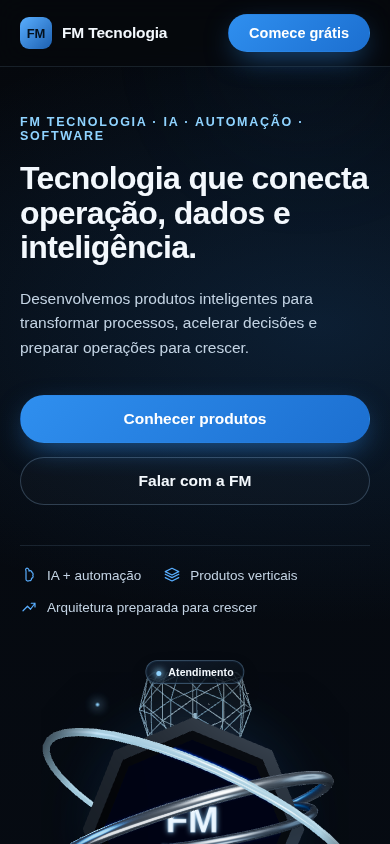
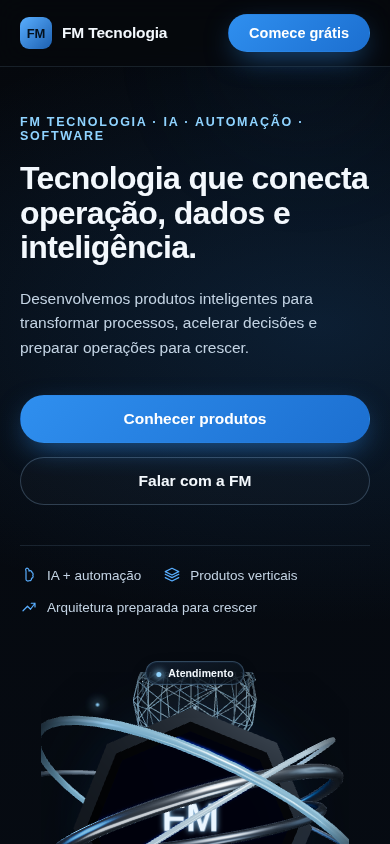
Prototype V4.1: denser 3D Core closer to V3 reference, exposure fixed
Follow-up after user confirmed they want the V3 look achieved in real
3D, not the flatter V4 first pass. Re-applied the reverted V4 commit
(three.js/R3F is back) and pushed the scene further toward the V3
image's density, then had to pull the lighting back down once it blew
out.

CoreScene3D.tsx:
- 5 orbital rings now (was 3), varied radii/tilts/speeds, closer to the
  V3 image's layered-ring look.
- Neural node cloud: 220 nodes (was 140) plus actual edges between
  nearby nodes (lineSegments) so it reads as a connected network, not
  just floating dust — closer to the "malha neural" in the reference.
  Icosahedron detail bumped to 3.
- Camera pulled in tighter (fov 34, closer position) so the core+rings+
  brain fill the frame more like the V3 crop.
- First pass at all this cranked Bloom/Lightformer intensity too far and
  blew the rings out to solid white — exactly what the brief said to
  avoid. Pulled Bloom intensity 0.85->0.45, raised luminanceThreshold
  0.32->0.58, and dropped every ring/light's
  envMapIntensity/emissiveIntensity back down so the metal reads as
  metal again instead of overexposed glow.

Re-validated: tsc clean, build clean, WebGL-disabled fallback still
flips to the static image with zero page errors, 4 sequential frames
still show real rotation. Isolated preview republished to the same
artifact URL (version 7).

Honest state: still short of V3's offline-rendered detail (this is a
live PBR scene at a bounded polygon/light budget, not a photoreal
[…]

Changed region(s): [[0.0923, 0.7701, 0.8923, 1.0]]

diff --git a/prototypes/fm-home-hero-concept-v1/src/three/CoreScene3D.tsx b/prototypes/fm-home-hero-concept-v1/src/three/CoreScene3D.tsx
@@ -22,27 +22,27 @@ export default function CoreScene3D({ quality, reducedMotion }: SceneProps) {
     <Canvas
       dpr={[1, isLow ? 1.5 : 2]}
       gl={{ antialias: true, alpha: true, powerPreference: 'high-performance' }}
-      camera={{ position: [1.35, 0.35, 6.1], fov: 32 }}
+      camera={{ position: [1.15, 0.2, 5.4], fov: 34 }}
       frameloop={reducedMotion ? 'demand' : 'always'}
       style={{ position: 'absolute', inset: 0 }}
     >
-      <ambientLight intensity={0.32} color="#9fc4ea" />
-      <directionalLight position={[3, 4, 5]} intensity={1.8} color="#ffffff" />
-      <pointLight position={[-3.2, 1.2, -1.8]} intensity={12} color="#4fb0ff" distance={11} />
-      <pointLight position={[2.2, -1.8, 3]} intensity={4} color="#bfe6ff" distance={9} />
+      <ambientLight intensity={0.3} color="#9fc4ea" />
+      <directionalLight position={[3, 4, 5]} intensity={1.4} color="#ffffff" />
+      <pointLight position={[-3.2, 1.2, -1.8]} intensity={7} color="#4fb0ff" distance={11} />
+      <pointLight position={[2.2, -1.8, 3]} intensity={2} color="#bfe6ff" distance={9} />
 
       <Environment resolution={isLow ? 128 : 256} frames={1}>
-        <Lightformer form="rect" intensity={4} color="#eaf6ff" position={[2, 3, 3]} scale={[5, 3, 1]} rotation={[0, -Math.PI / 4, 0]} />
-        <Lightformer form="rect" intensity={3} color="#4fb0ff" position={[-4, 0.5, 2]} scale={[4, 2.5, 1]} rotation={[0, Math.PI / 3, 0]} />
-        <Lightformer form="rect" intensity={1.6} color="#ffffff" position={[0, -3, 2]} scale={[6, 2, 1]} rotation={[Math.PI / 4, 0, 0]} />
-        <Lightformer form="ring" intensity={1.2} color="#bfe6ff" position={[4, 1, -2]} scale={3.5} />
+        <Lightformer form="rect" intensity={2.2} color="#eaf6ff" position={[2, 3, 3]} scale={[5, 3, 1]} rotation={[0, -Math.PI / 4, 0]} />
+        <Lightformer form="rect" intensity={1.6} color="#4fb0ff" position={[-4, 0.5, 2]} scale={[4, 2.5, 1]} rotation={[0, Math.PI / 3, 0]} />
+        <Lightformer form="rect" intensity={0.9} color="#ffffff" position={[0, -3, 2]} scale={[6, 2, 1]} rotation={[Math.PI / 4, 0, 0]} />
+        <Lightformer form="ring" intensity={0.7} color="#bfe6ff" position={[4, 1, -2]} scale={3.5} />
       </Environment>
 
       <CoreGroup quality={quality} reducedMotion={reducedMotion} />
 
       {!isLow && (
         <EffectComposer>
-          <Bloom mipmapBlur intensity={0.55} luminanceThreshold={0.42} luminanceSmoothing={0.25} radius={0.6} />
+          <Bloom mipmapBlur intensity={0.45} luminanceThreshold={0.58} luminanceSmoothing={0.22} radius={0.55} />
         </EffectComposer>
       )}
     </Canvas>
@@ -54,32 +54,60 @@ function CoreGroup({ quality }: { quality: 'high' | 'low'; reducedMotion: boolea
   const ring1 = useRef<THREE.Mesh>(null)
   const ring2 = useRef<THREE.Mesh>(null)
   const ring3 = useRef<THREE.Mesh>(null)
+  const ring4 = useRef<THREE.Mesh>(null)
+  const ring5 = useRef<THREE.Mesh>(null)
   const neuralRef = useRef<THREE.Group>(null)
   const nodesMaterialRef = useRef<THREE.PointsMaterial>(null)
   const pointer = useRef({ x: 0, y: 0 })
 
   const isLow = quality === 'low'
   const ringSegments = isLow ? 48 : 96
-  const icoDetail = isLow ? 1 : 2
+  const icoDetail = isLow ? 2 : 3
 
   const labelTexture = useMemo(() => createFmLabelTexture(), [])
 
+  const nodeRadius = 0.66
+
   const nodePositions = useMemo(() => {
-    const count = isLow ? 60 : 140
+    const count = isLow ? 90 : 220
     const positions = new Float32Array(count * 3)
-    const radius = 0.62
     for (let i = 0; i < count; i++) {
       // distribuição aproximadamente esférica (Fibonacci sphere)
       const t = i / Math.max(1, count - 1)
       const inclination = Math.acos(1 - 2 * t)
       const azimuth = Math.PI * (1 + Math.sqrt(5)) * i
-      const r = radius * (0.86 + 0.14 * Math.sin(i * 12.9898))
+      const r = nodeRadius * (0.86 + 0.14 * Math.sin(i * 12.9898))
       positions[i * 3] = r * Math.sin(inclination) * Math.cos(azimuth)
       positions[i * 3 + 1] = r * Math.sin(inclination) * Math.sin(azimuth) * 0.85 + 0.15
       positions[i * 3 + 2] = r * Math.cos(inclination)
     }
     return positions
   }, [isLow])
+
+  // Conexões entre nós próximos — dá a leitura de "rede neural", não só poeira de pontos.
+  const nodeEdges = useMemo(() => {
+    const count = nodePositions.length / 3
+    const segments: number[] = []
+    const maxDist = 0.34
+    const maxEdgesPerNode = 3
+    for (let i = 0; i < count; i++) {
+      const ax = nodePositions[i * 3]
+      const ay = nodePositions[i * 3 + 1]
+      const az = nodePositions[i * 3 + 2]
+      let added = 0
+      for (let j = i + 1; j < count && added < maxEdgesPerNode; j++) {
+        const bx = nodePositions[j * 3]
+        const by = nodePositions[j * 3 + 1]
+        const bz = nodePositions[j * 3 + 2]
+        const d = Math.hypot(ax - bx, ay - by, az - bz)
+        if (d < maxDist) {
+          segments.push(ax, ay, az, bx, by, bz)
+          added++
+        }
+      }
+    }
+    return new Float32Array(segments)
+  }, [nodePositions])
 
   useFrame((state, delta) => {
     const { pointer: ptr } = state
@@ -99,6 +127,8 @@ function CoreGroup({ quality }: { quality: 'high' | 'low'; reducedMotion: boolea
     if (ring1.current) ring1.current.rotation.z += delta * 0.11
     if (ring2.current) ring2.current.rotation.z -= delta * 0.07
     if (ring3.current) ring3.current.rotation.z += delta * 0.045
+    if (ring4.current) ring4.current.rotation.z -= delta * 0.085
+    if (ring5.current) ring5.current.rotation.z += delta * 0.03
 
     const t = state.clock.elapsedTime
     if (neuralRef.current) {
@@ -119,10 +149,10 @@ function CoreGroup({ quality }: { quality: 'high' | 'low'; reducedMotion: boolea
         <meshPhysicalMaterial
           color={METAL_COLOR}
           metalness={0.92}
-          roughness={0.3}
-          clearcoat={0.5}
-          clearcoatRoughness={0.2}
-          envMapIntensity={2.4}
+          roughness={0.32}
+          clearcoat={0.45}
+          clearcoatRoughness={0.22}
+          envMapIntensity={1.6}
         />
       </mesh>
 
@@ -161,21 +191,29 @@ function CoreGroup({ quality }: { quality: 'high' | 'low'; reducedMotion: boolea
       {/* Anéis orbitais */}
       <mesh ref={ring1} rotation={[Math.PI / 2.25, 0.3, 0]}>
         <torusGeometry args={[1.58, 0.065, 16, ringSegments]} />
-        <meshStandardMaterial color="#d7e2ee" metalness={0.9} roughness={0.22} envMapIntensity={2.2} />
+        <meshStandardMaterial color="#d7e2ee" metalness={0.9} roughness={0.24} envMapIntensity={1.5} />
       </mesh>
       <mesh ref={ring2} rotation={[Math.PI / 2.6, -0.4, 0.2]}>
         <torusGeometry args={[1.88, 0.038, 16, ringSegments]} />
-        <meshStandardMaterial color={CYAN} metalness={0.55} roughness={0.15} emissive={CYAN} emissiveIntensity={0.6} envMapIntensity={1.8} />
+        <meshStandardMaterial color={CYAN} metalness={0.55} roughness={0.18} emissive={CYAN} emissiveIntensity={0.32} envMapIntensity={1.2} />
       </mesh>
       <mesh ref={ring3} rotation={[Math.PI / 1.9, 0.15, -0.25]}>
         <torusGeometry args={[1.36, 0.05, 16, ringSegments]} />
-        <meshStandardMaterial color="#9aa8b8" metalness={0.92} roughness={0.28} envMapIntensity={2} />
+        <meshStandardMaterial color="#9aa8b8" metalness={0.92} roughness={0.3} envMapIntensity={1.4} />
+      </mesh>
+      <mesh ref={ring4} rotation={[Math.PI / 2.05, 0.55, 0.4]}>
+        <torusGeometry args={[1.7, 0.024, 12, ringSegments]} />
+        <meshStandardMaterial color={CYAN_BRIGHT} metalness={0.5} roughness={0.2} emissive={CYAN_BRIGHT} emissiveIntensity={0.32} />
+      </mesh>
+      <mesh ref={ring5} rotation={[Math.PI / 1.75, -0.25, 0.55]}>
+        <torusGeometry args={[2.05, 0.03, 12, ringSegments]} />
+        <meshStandardMaterial color="#c3d3e3" metalness={0.88} roughness={0.34} envMapIntensity={1.3} />
       </mesh>
 
       {/* Estrutura neural superior */}
       <group ref={neuralRef} position={[0, 1.32, 0]}>
         <mesh>
-          <icosahedronGeometry args={[0.64, icoDetail]} />
+          <icosahedronGeometry args={[nodeRadius, icoDetail]} />
           <meshStandardMaterial
             color={CYAN}
             wireframe
@@ -196,13 +234,19 @@ function CoreGroup({ quality }: { quality: 'high' | 'low'; reducedMotion: boolea
           <pointsMaterial
             ref={nodesMaterialRef}
             color="#ffffff"
-            size={0.03}
+            size={0.032}
             sizeAttenuation
             transparent
-            opacity={0.9}
+            opacity={0.95}
             toneMapped={false}
           />
         </points>
+        <lineSegments>
+          <bufferGeometry>
+            <bufferAttribute attach="attributes-position" args={[nodeEdges, 3]} />
+          </bufferGeometry>
+          <lineBasicMaterial color={CYAN} transparent opacity={0.35} toneMapped={false} />
+        </lineSegments>
       </group>
     </group>
   )
